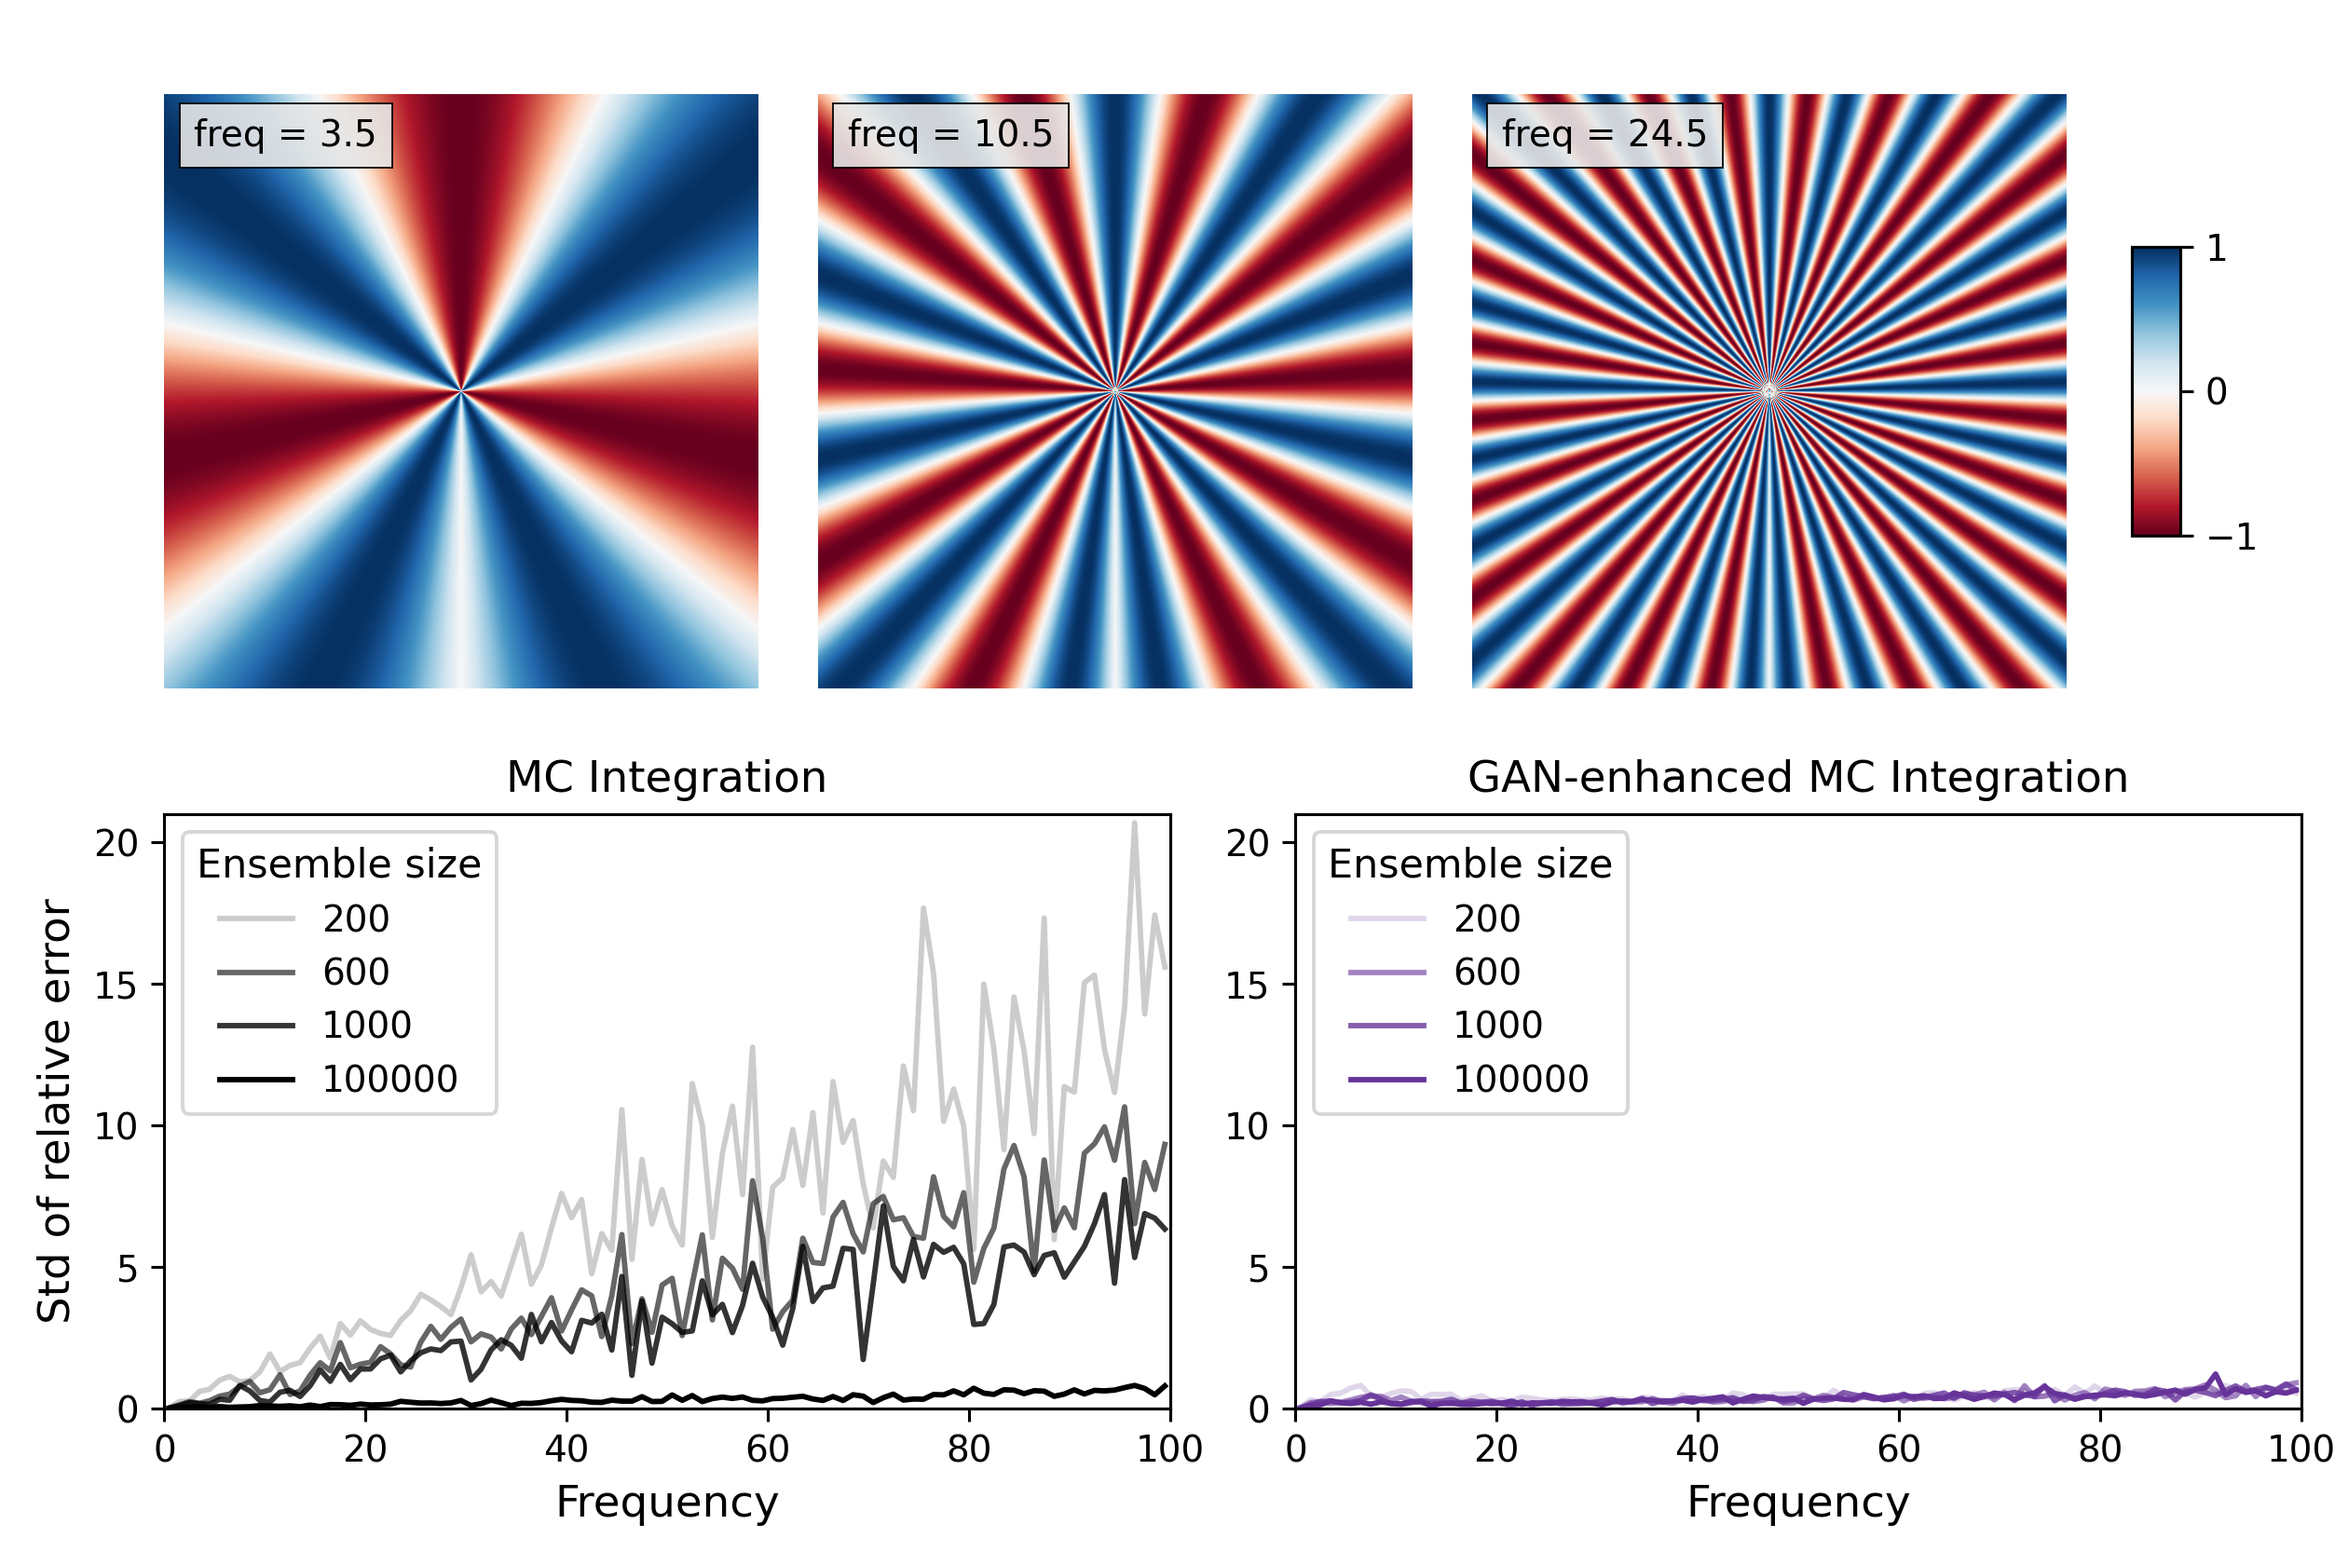
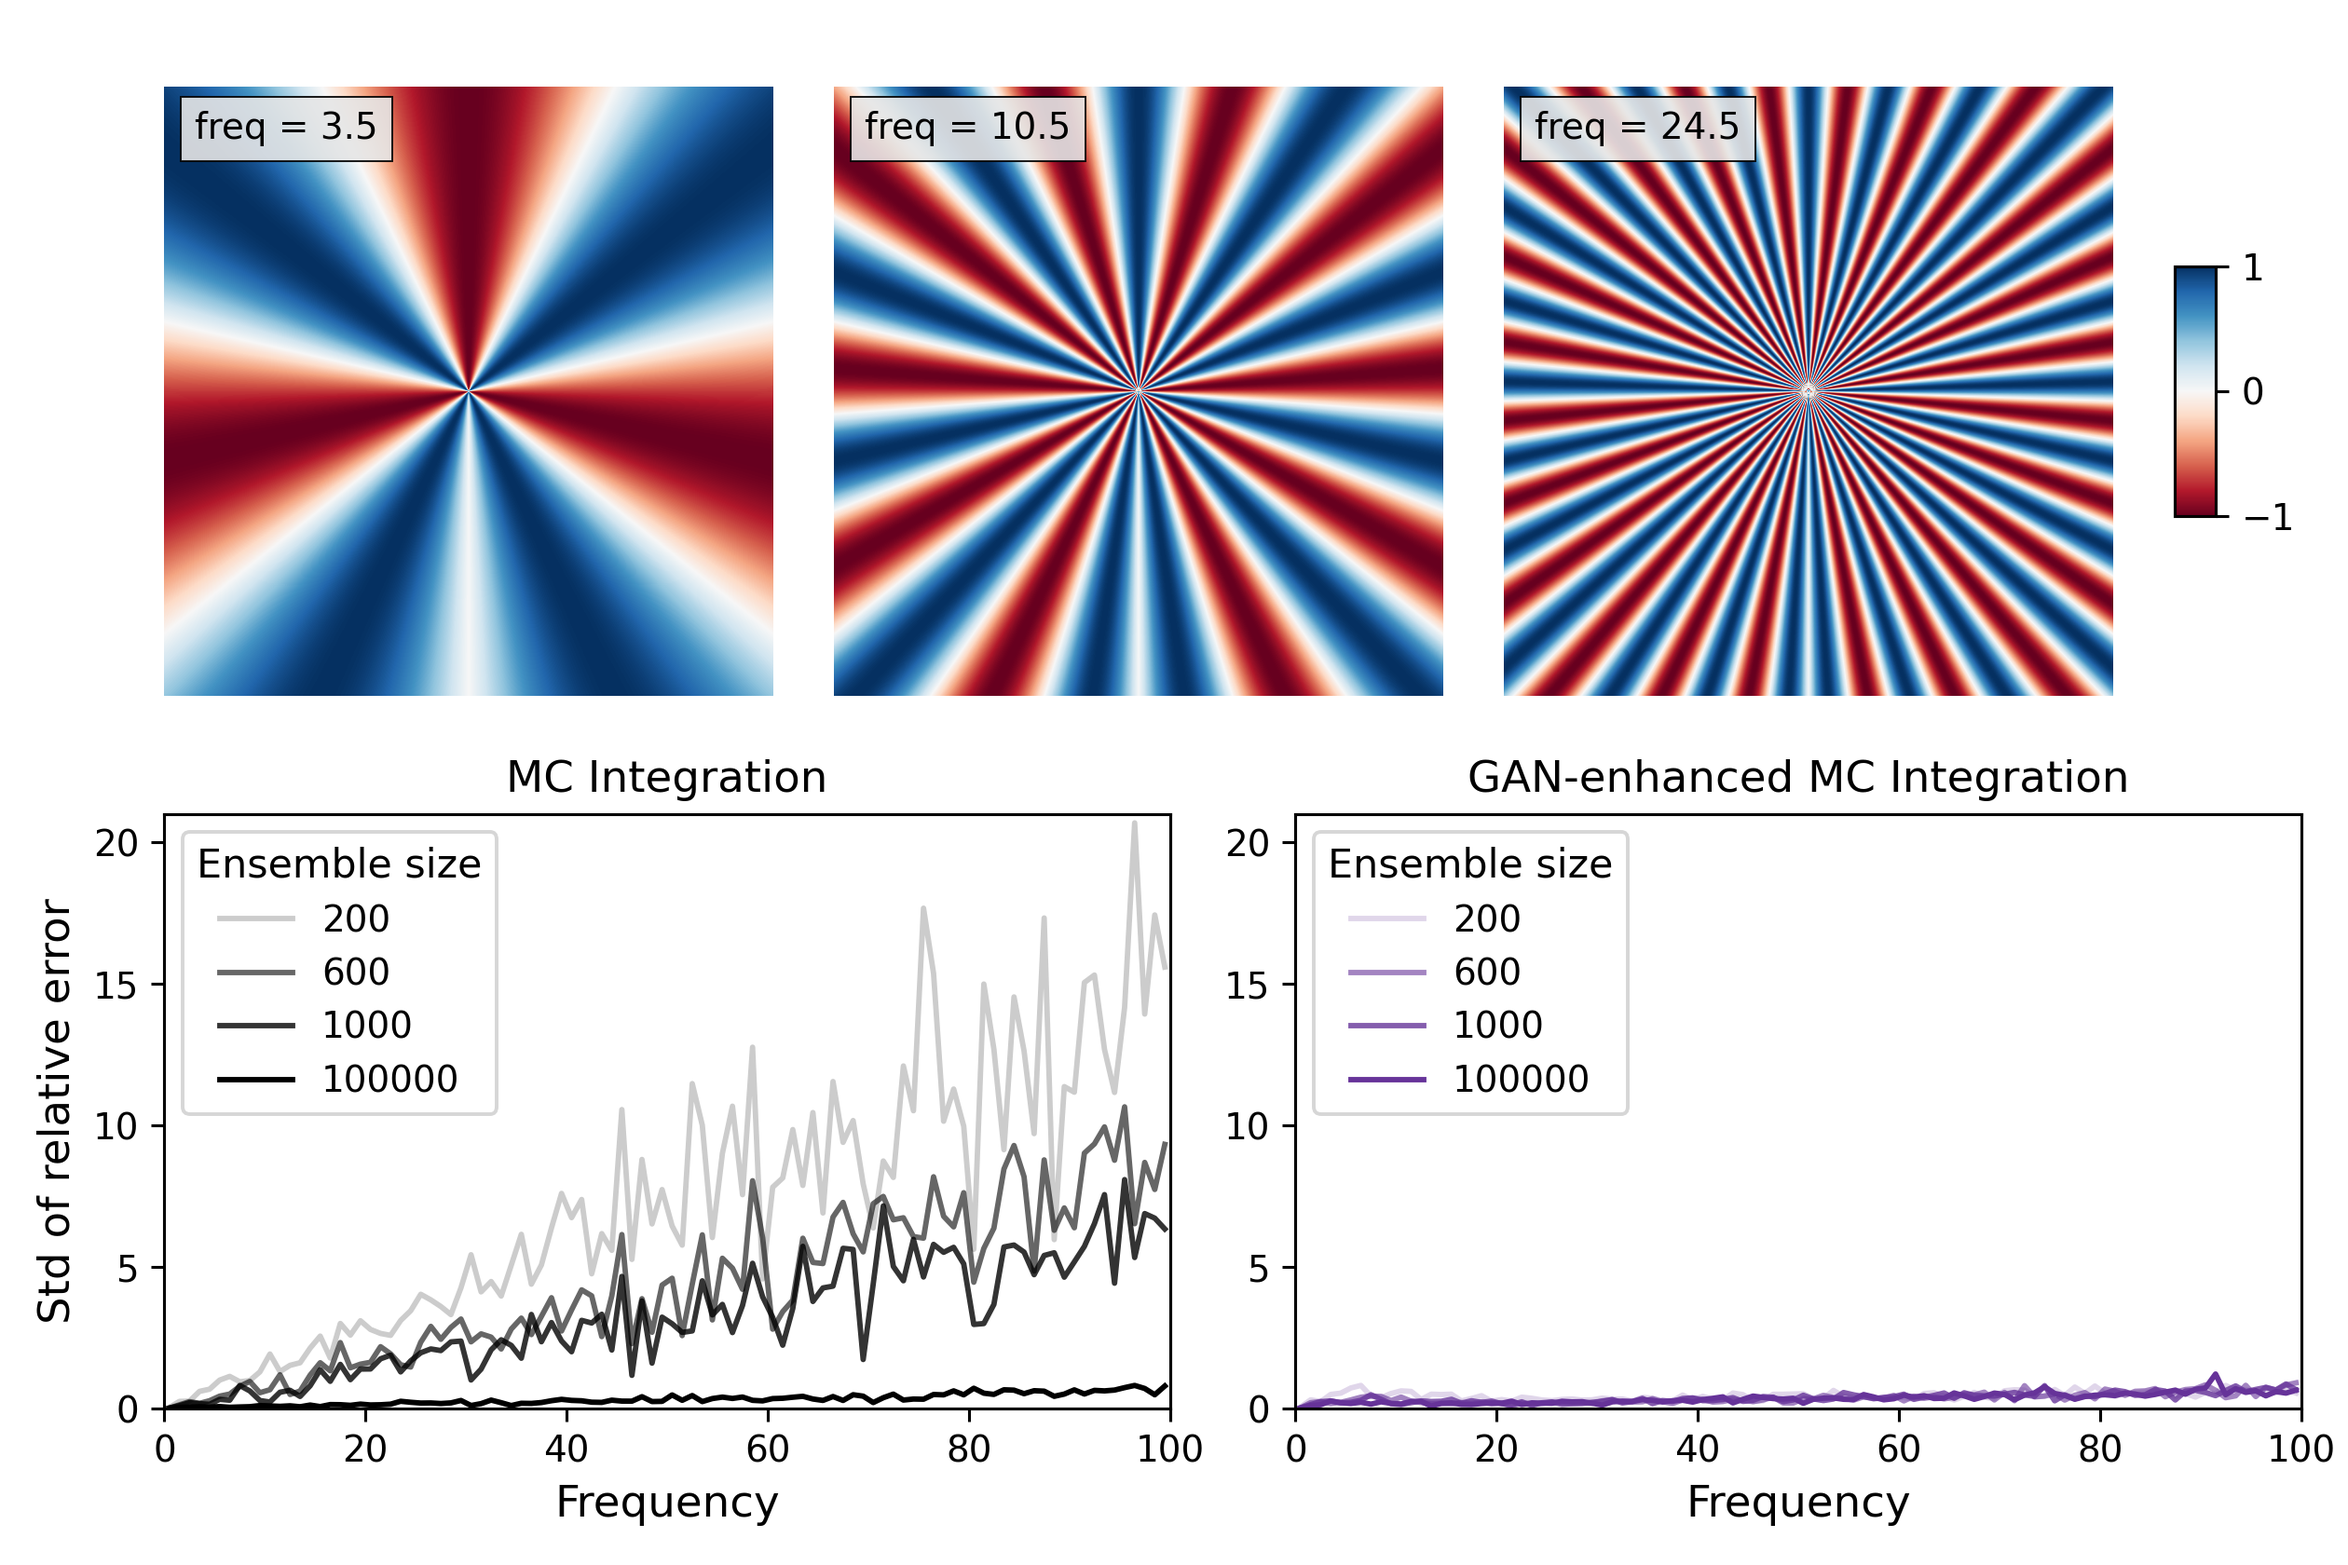
change some details in figures

Changed region(s): [[0.0619, 0.031, 0.9595, 0.4643]]

diff --git a/geophysical_example/plot_figures.py b/geophysical_example/plot_figures.py
@@ -3,6 +3,7 @@ from matplotlib import pyplot as plt
 from matplotlib import gridspec,colors
 import cartopy.crs as ccrs
 import pickle
+import sys
 
 dpi = 280
 
@@ -74,7 +75,7 @@ def add_ylabel(ax,label,**kwargs):
             rotation='horizontal',rotation_mode='anchor',
             transform=ax.transAxes,**kwargs)
 
-def add_colorbar(pcm,min,max,pos=None,label=None,vertical=False,fraction=0.3,shrink=0.6,aspect=12,rowspan=1,round=2):
+def add_colorbar(pcm,min,max,pos=None,label=None,vertical=False,fraction=0.3,shrink=0.6,aspect=12,rowspan=1,round=2,labelpad=-44):
     if vertical:
         cax = plt.subplot2grid(subplot_size,pos,rowspan=3)
         cbar = plt.colorbar(pcm,ax=cax,orientation='vertical',fraction=fraction,shrink=shrink,aspect=10)
@@ -106,7 +107,9 @@ def plot_marginal(ax,i,j):
                 rotation='horizontal',rotation_mode='anchor',
                 transform=ax.transAxes)
     else:
-        ax.set_xticks([])
+        # ax.set_xticks([])
+        ax.set_xticks([6.8,7.2,7.6])
+        ax.set_xticklabels([])
     ax.set_yticks([])
     ax.set_xlim(bins_x.min(),bins_x.max())
     emd = data_dict['emds'].flatten()[data_dict['chosen_ind_flat']][j*4+i]
@@ -162,7 +165,7 @@ gs = gridspec.GridSpec(6,1)
 gs.update(left=0.02+shift,right=1/3-shift,top=0.98,bottom=0.22)
 ax,pcm = plot_contour(data_dict['emds'],cmap_std,0,0.1,pos=gs)
 ax.plot(data_dict['chosen_lon'],data_dict['chosen_lat'],'x',color='rebeccapurple',markersize=6,transform=ccrs.PlateCarree())
-ax = add_colorbar(pcm,0,0.1,pos=gs,label='Earth Mover Distance',rowspan=2,aspect=12,shrink=0.8,fraction=0.2)
+ax = add_colorbar(pcm,0,0.1,pos=gs,label='Earth Mover Distance',rowspan=2,aspect=12,shrink=0.8,fraction=0.2,labelpad=-47)
 add_label(ax,1)
 
 # Plot histogram of EMDs
@@ -189,6 +192,8 @@ fig.savefig('../figures/fig06.png',dpi=dpi)
 
 ##### Figure 7 -- Covariance Matrices and point spread functions #####
 
+fs = 18
+
 # Set up figure
 axs = []
 fig = plt.figure(figsize=(16,6.5))
@@ -210,13 +215,13 @@ axs.append(plt.subplot(gs[0]))
 im = axs[0].imshow(data_dict['real_cov'],cmap=cmap,vmin=cov_min,vmax=cov_max)
 axs[0].set_xticks([])
 axs[0].set_yticks([])
-axs[0].text(-0.17,0.5,'McMC',va='center',ha='center',rotation='horizontal',rotation_mode='anchor',transform=axs[0].transAxes,fontsize=15)
-axs[0].set_title('Cov. Matrix',fontsize=15)
+axs[0].text(-0.17,0.5,'McMC',va='center',ha='center',rotation='horizontal',rotation_mode='anchor',transform=axs[0].transAxes,fontsize=fs)
+axs[0].set_title('Cov. Matrix',fontsize=fs)
 
 im = axs[1].imshow(data_dict['fake_cov'],cmap=cmap,vmin=cov_min,vmax=cov_max)
 axs[1].set_xticks([])
 axs[1].set_yticks([])
-axs[1].text(-0.17,0.5,'GAN',va='center',ha='center',rotation='horizontal',rotation_mode='anchor',transform=axs[1].transAxes,fontsize=15)
+axs[1].text(-0.17,0.5,'GAN',va='center',ha='center',rotation='horizontal',rotation_mode='anchor',transform=axs[1].transAxes,fontsize=fs)
 
 indices = 5,6,13,14
 for i,index in enumerate(indices):
@@ -234,12 +239,13 @@ for i,index in enumerate(indices):
     axs[i+6].axis('off')
     axs[i+6].plot(data_dict['chosen_lon'][index],data_dict['chosen_lat'][index],'*',color='yellow',markersize=12,transform=ccrs.PlateCarree())
 
-axs[4].text(0,1.05,'Point spread functions',va='center',ha='center',rotation='horizontal',rotation_mode='anchor',transform=axs[4].transAxes,fontsize=15)
+axs[4].text(0,1.05,'Point spread functions',va='center',ha='center',rotation='horizontal',rotation_mode='anchor',transform=axs[4].transAxes,fontsize=fs)
 
 cbar = plt.colorbar(pcm,ax=axs[10],orientation='vertical',fraction=0.9,shrink=0.4,aspect=6)
 axs[10].axis('off')
 cbar.set_ticks([cov_min,0,cov_max])
-cbar.set_label('Covariance',labelpad=-75,fontsize=15)
+cbar.set_label('Covariance',labelpad=-80,fontsize=fs)
+cbar.ax.tick_params(labelsize=12)
 
 fig.savefig('../figures/fig07.png',dpi=dpi)
 
@@ -266,7 +272,7 @@ for i,perc in enumerate([40,50]):
     gs.update(left=left+shift,right=right-shift,top=1.0,bottom=0.5)
     ax,pcm = plot_contour(data_dict['emds'],cmap_std,0,0.1,pos=gs,extend=extend,nlevels=20)
     title = 'EMD (first '+str(perc)+'%)'
-    add_colorbar(pcm,0,0.1,pos=gs,label=title,rowspan=2,aspect=12,shrink=0.8,fraction=0.2)
+    add_colorbar(pcm,0,0.1,pos=gs,label=title,rowspan=2,aspect=12,shrink=0.8,fraction=0.2,labelpad=-47)
 
     # Plot histogram of EMD
     shift = 0.09
@@ -305,9 +311,11 @@ cbar = plt.colorbar(im,ax=ax,orientation='horizontal',fraction=0.9,shrink=0.4,as
 ax.axis('off')
 cbar.set_ticks([cov_min,0,cov_max])
 cbar.ax.tick_params(labelsize=14)
-cbar.set_label('Covariance',labelpad=-45,fontsize=15)
+cbar.set_label('Covariance',labelpad=-47,fontsize=15)
 
 fig.savefig('../figures/fig08.png',dpi=dpi)
+
+sys.exit()
 
 
 ##### Figure 9 -- Global map #####

diff --git a/synthetic_example/plot_figures.py b/synthetic_example/plot_figures.py
@@ -147,12 +147,12 @@ phi = xy2phi(X,Y)
 axs = []
 fig = plt.figure(figsize=(9,6))
 gs = gridspec.GridSpec(1,3,wspace=0.1)
-gs.update(left=0.07,right=0.88,top=0.98,bottom=0.52)
+gs.update(left=0.07,right=0.9,top=0.98,bottom=0.52)
 axs.append(plt.subplot(gs[0]))
 axs.append(plt.subplot(gs[1]))
 axs.append(plt.subplot(gs[2]))
 gs = gridspec.GridSpec(1,1)
-gs.update(left=0.9,right=0.98,top=0.98,bottom=0.52)
+gs.update(left=0.92,right=0.98,top=0.95,bottom=0.55)
 axs.append(plt.subplot(gs[0]))
 gs = gridspec.GridSpec(1,2,wspace=0.125)
 gs.update(left=0.07,right=0.98,top=0.48,bottom=0.1)
@@ -235,7 +235,7 @@ def make_one_plot(ax,dim,n_plot):
     ax.set_yticks([])
     ax.set_xticks([])
 
-labels = ['McMC (all samples)','McMC (x1-x2 plane)','GAN (x1-x2 plane)']
+labels = ['McMC (all samples)',f'McMC ($x_1-x_2$ plane)',f'GAN ($x_1-x_2$ plane)']
 cmaps = ['binary','binary','Purples']
 colors = ['k','k','rebeccapurple']
 
